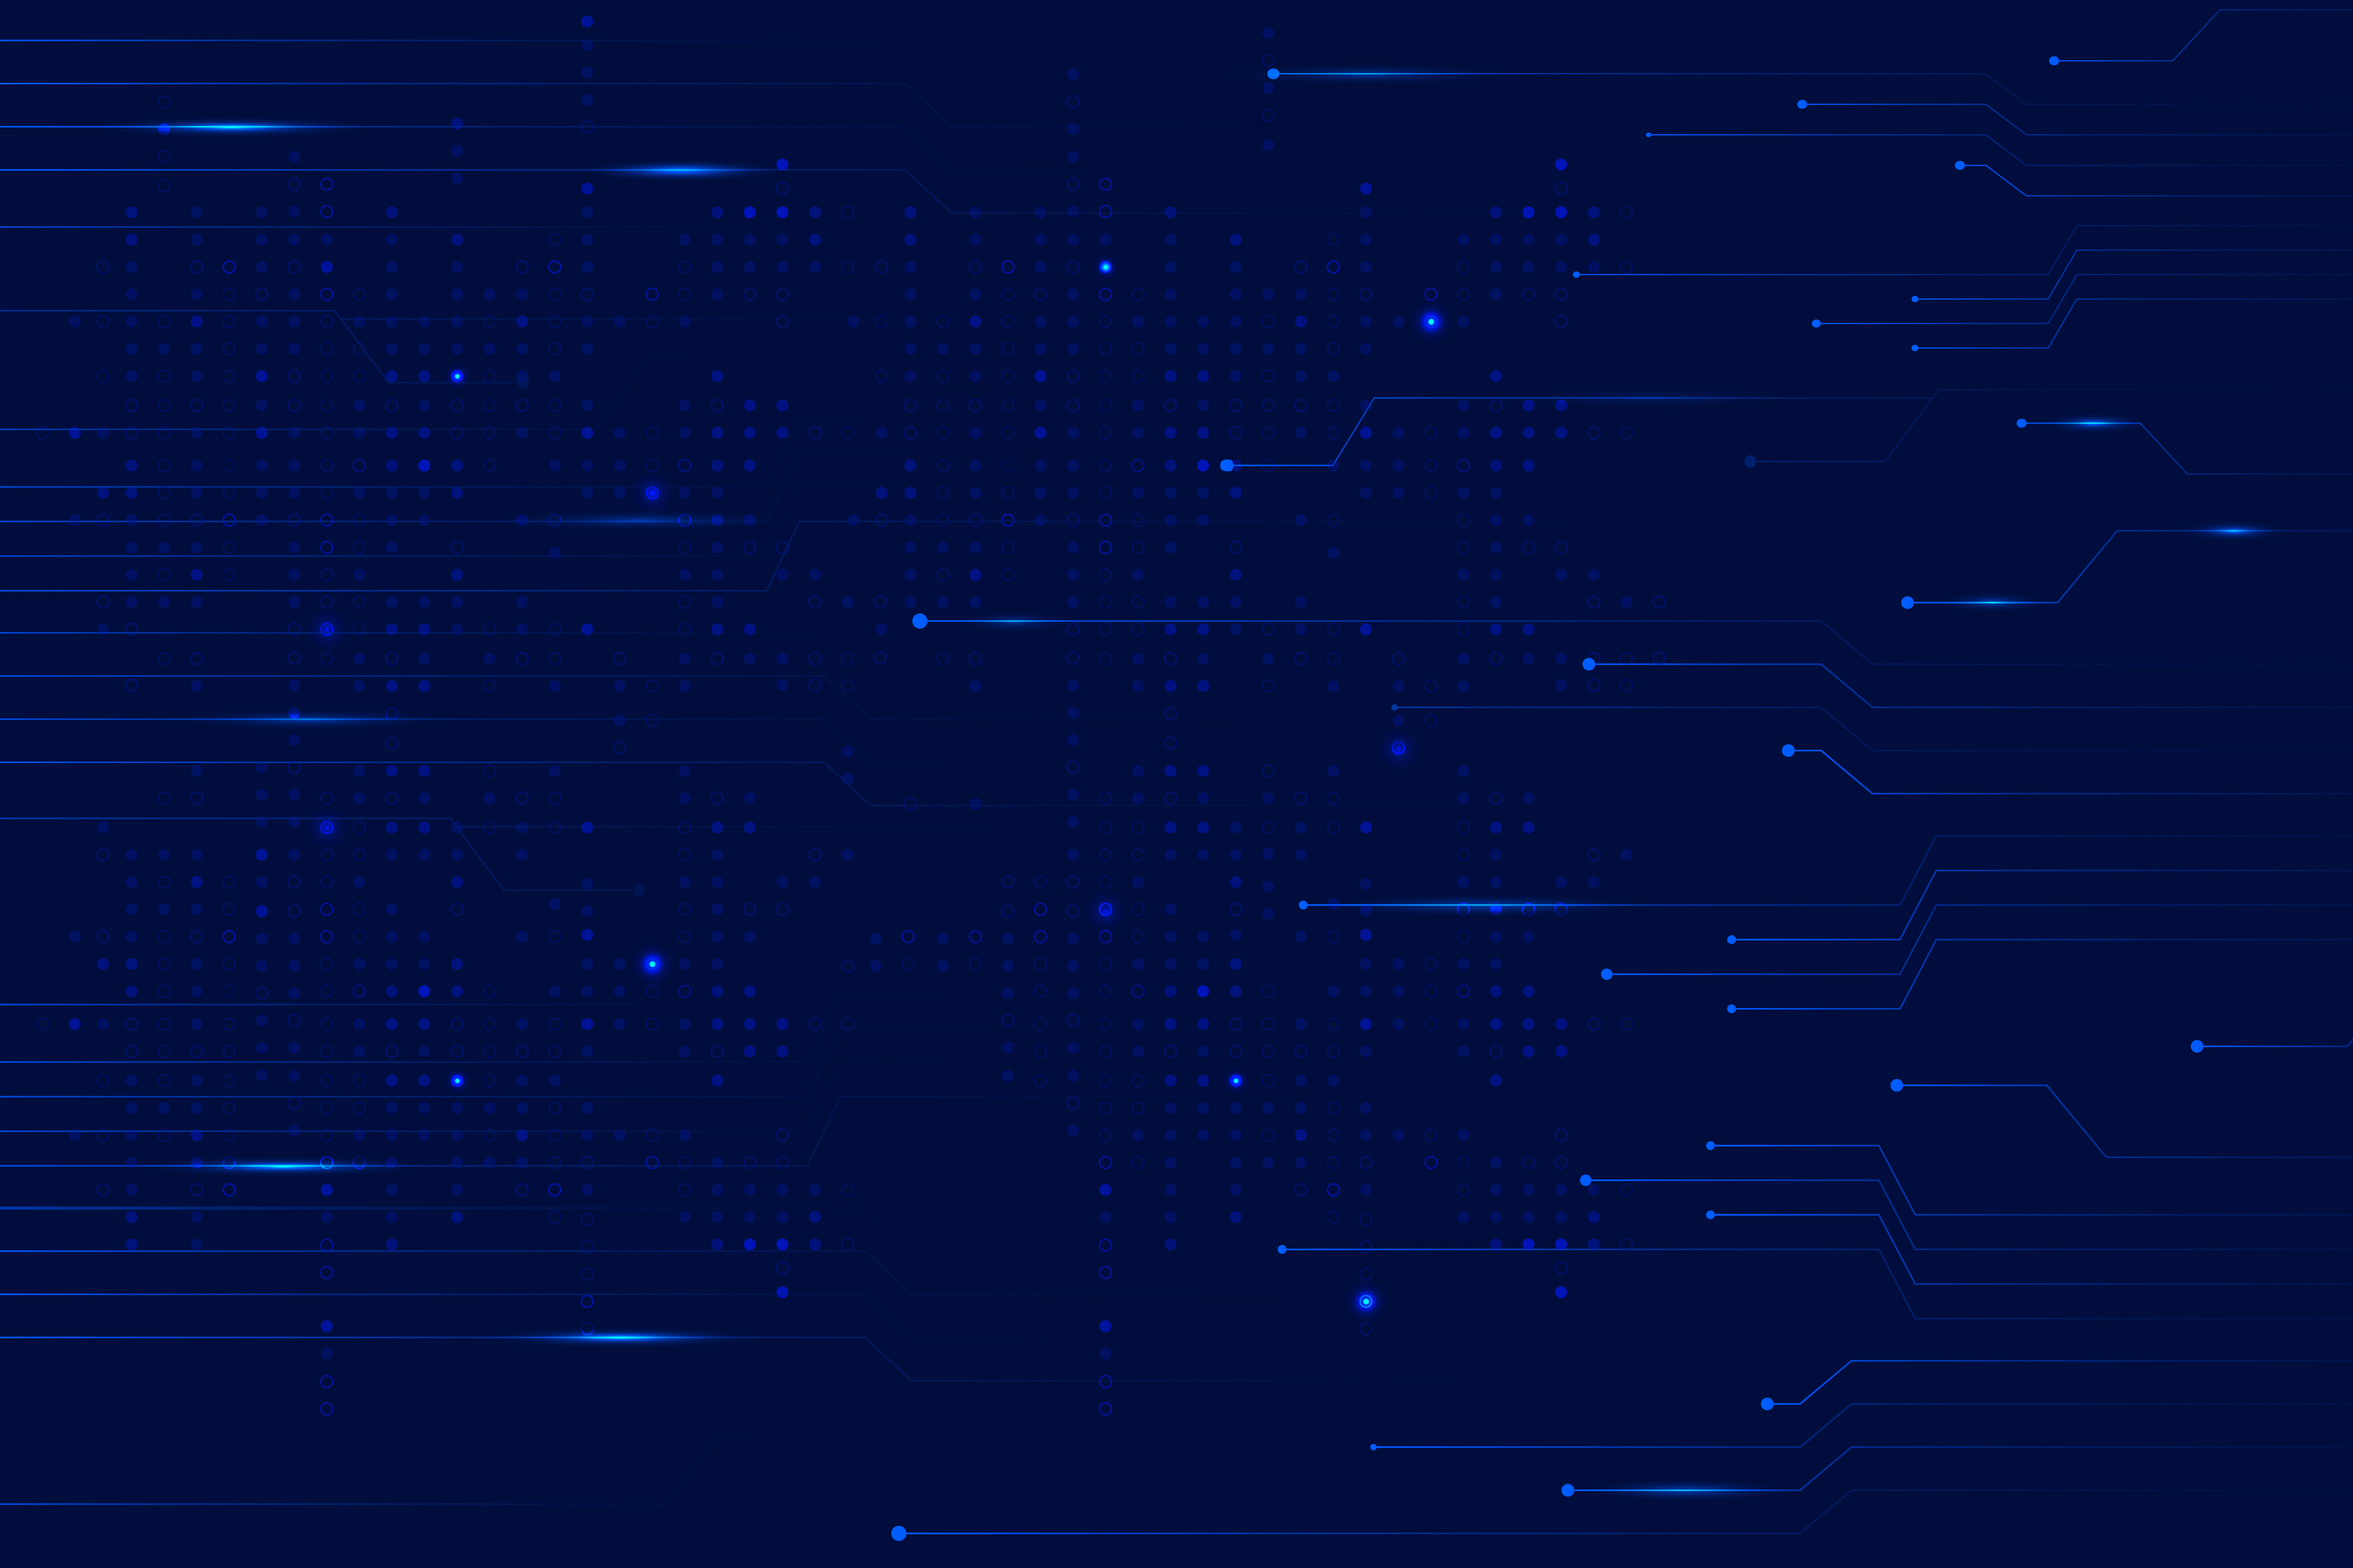
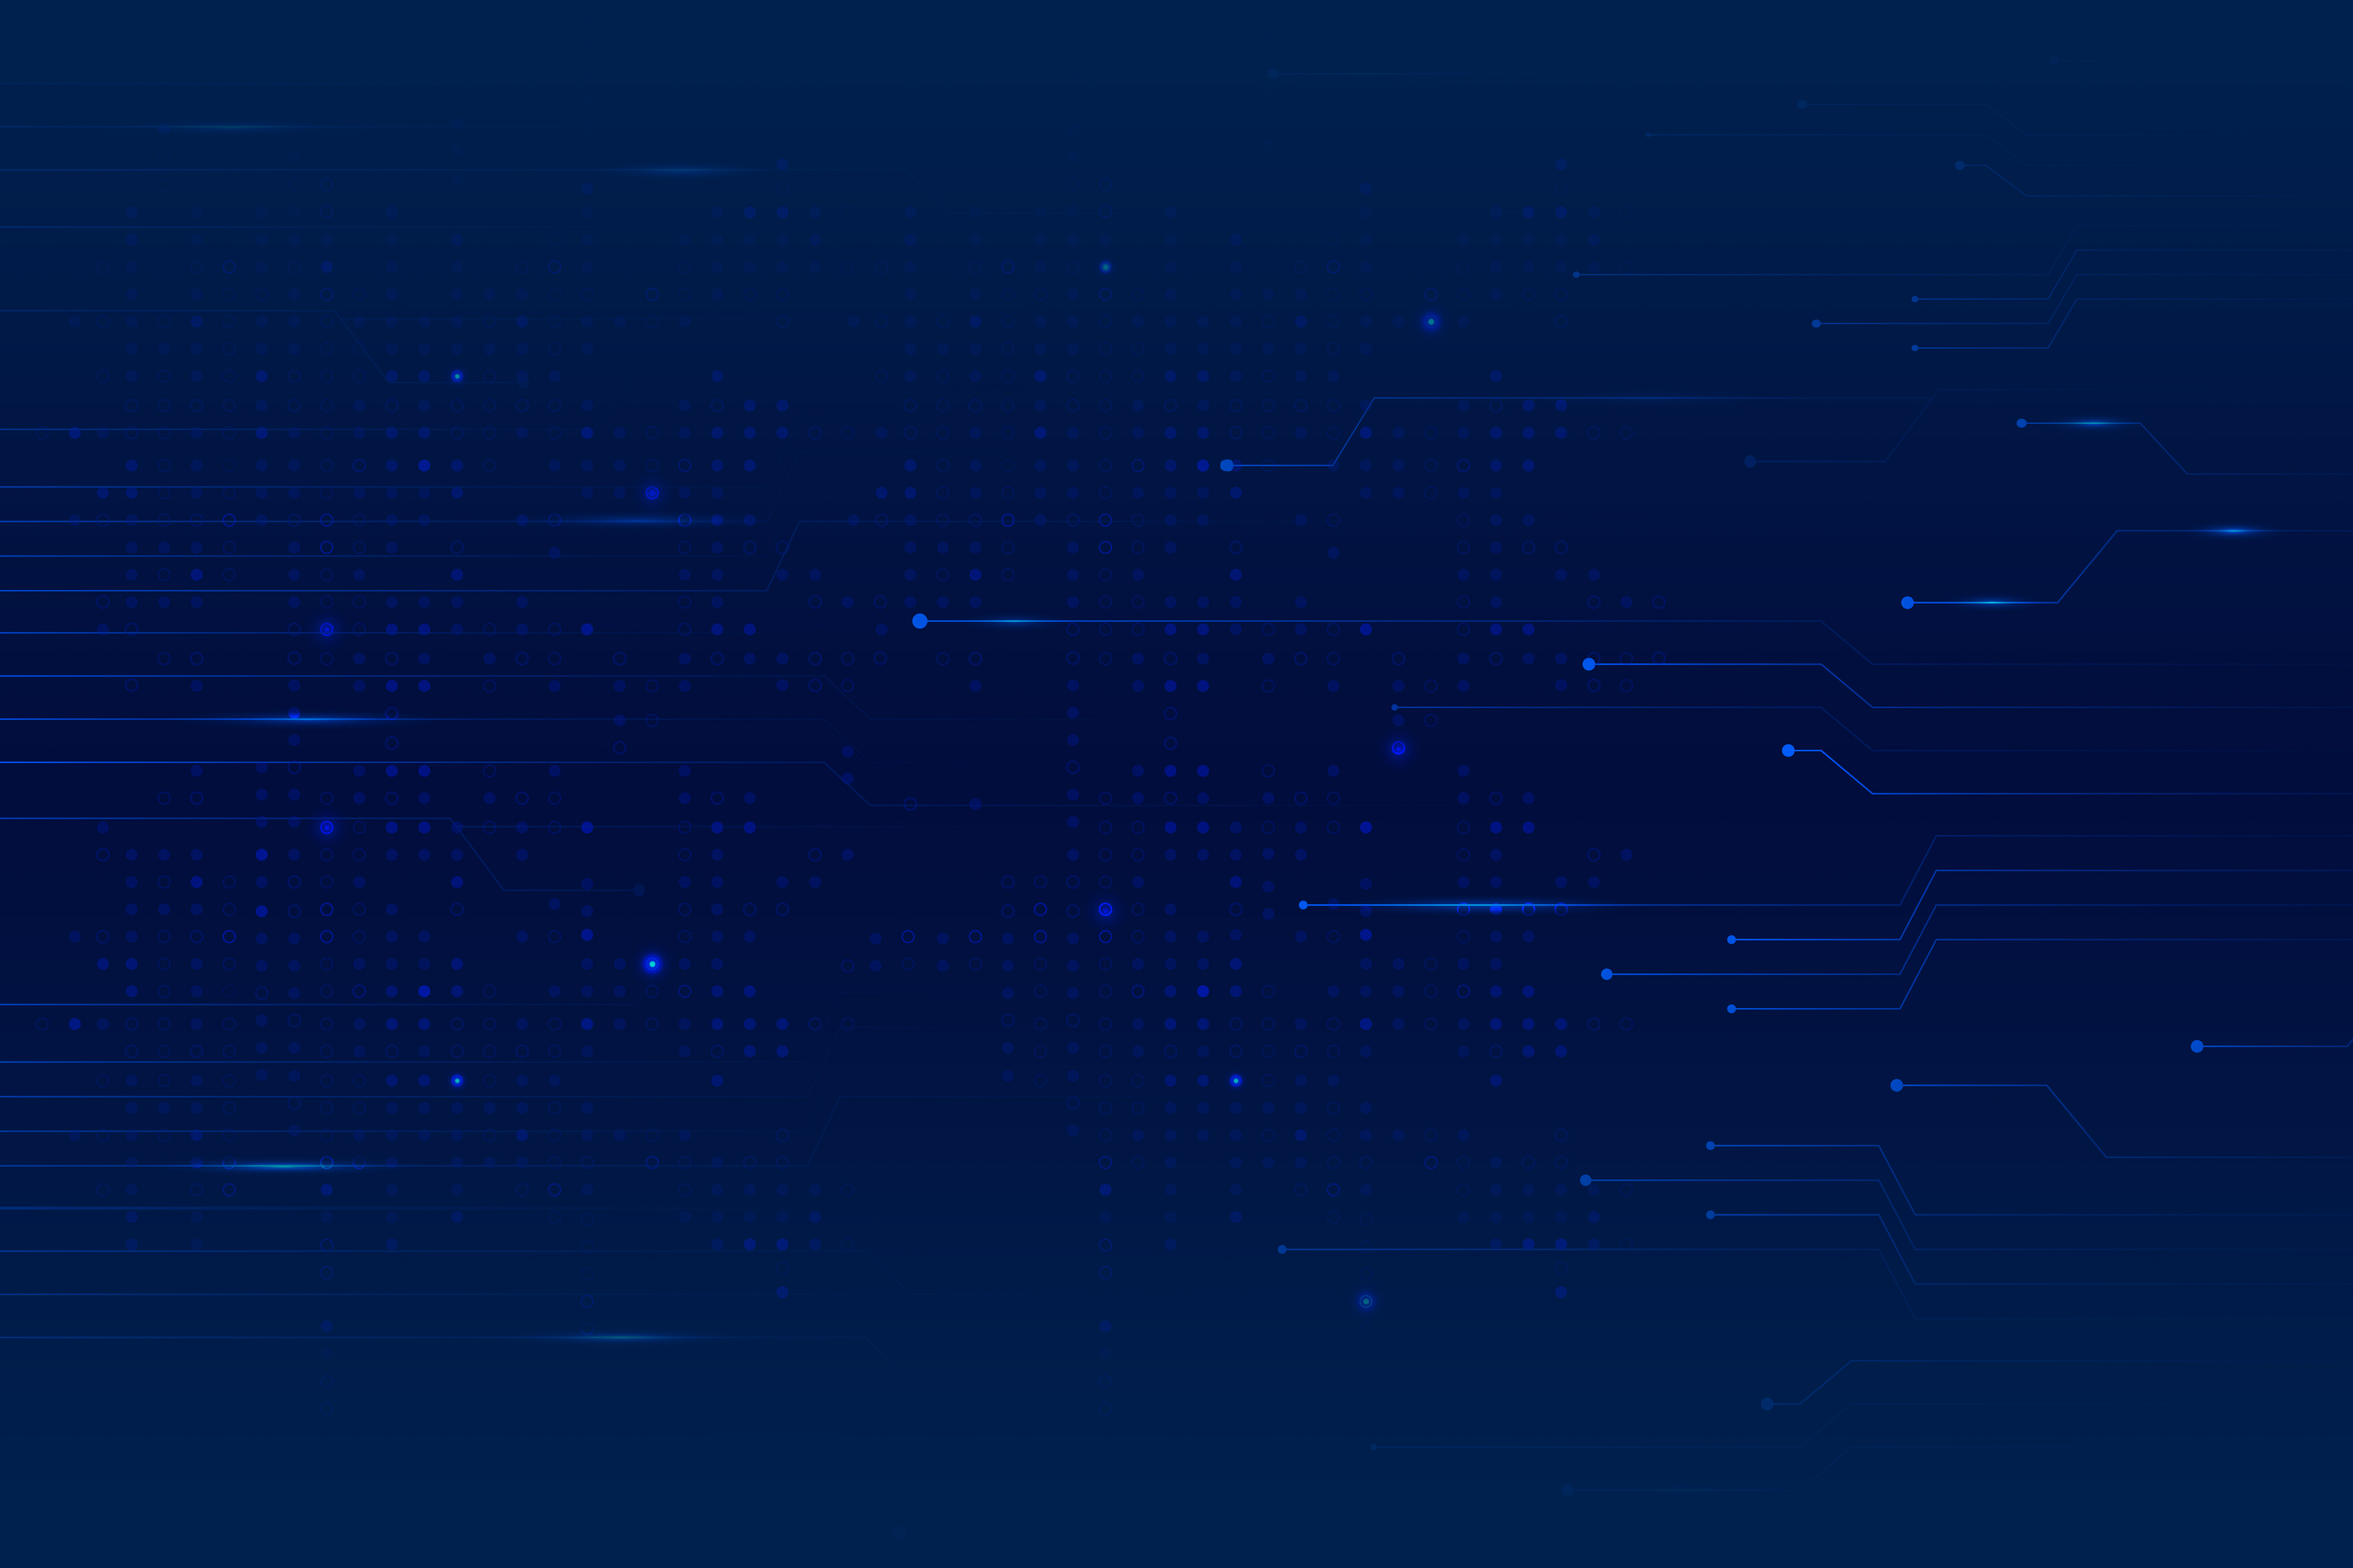
fix css backgrounds

diff --git a/src/pages/Home/components/Fourth/FourthSection.tsx b/src/pages/Home/components/Fourth/FourthSection.tsx
@@ -6,13 +6,24 @@ import KikoTecnologia from "../../../../assets/colaboradores/KIKO_tecnologia.png
 import ParadiseOutlet from "../../../../assets/colaboradores/Paradise_Outlet.jpg";
 import ReiCapinhas from "../../../../assets/colaboradores/Rei_das_capinhas.jpg";
 import SteakHouse from "../../../../assets/colaboradores/SL_STEAK_HOUSE.png";
+import Waser from "../../../../assets/colaboradores/waser_tecnologia.jpeg";
+import MercadoConfianca from "../../../../assets/colaboradores/mercado_confianca_.jpeg";
+
+const colaboradores = [
+  { logo: KikoTecnologia, heightPhoto: "auto", widthPhoto: "90%" },
+  { logo: JZStore },
+  { logo: ParadiseOutlet },
+  { logo: ReiCapinhas },
+  { logo: SteakHouse },
+  { logo: Waser, heightPhoto: "auto", widthPhoto: "90%" },
+  { logo: MercadoConfianca, heightPhoto: "auto", widthPhoto: "90%" },
+];
 
 export function FourthSection() {
   return (
     <>
       <Box
         // height={"auto"}
-        pt={"3em"}
         display={"flex"}
         flexDirection={"column"}
         alignItems={"center"}
@@ -20,44 +31,56 @@ export function FourthSection() {
         py={"2rem"}
         className="background-colaboradores-section"
       >
-        <p className="primary-text-fourth-section">Colaboradores</p>
+        <p className="primary-text-second-section" style={{ margin: "2rem 0" }}>
+          Colaboradores
+        </p>
         <Box
           // display={"grid"}
-          gridTemplateColumns={{ xs: "auto", sm: "auto", md: "auto", lg: "auto auto auto", xl: "auto auto auto"}}
+          gridTemplateColumns={{
+            xs: "auto",
+            sm: "auto",
+            md: "auto",
+            lg: "auto auto auto",
+            xl: "auto auto auto",
+          }}
           bgcolor={"white"}
-          p={"2em"}
+          padding={"2em"}
           borderRadius={"50px"}
-          mt={"1em"}
-          mb="1em"
+          margin={"2em 0"}
           display={{ xs: "none", md: "grid" }}
         >
-          <ColaboradorCard logo={KikoTecnologia} />
-          <ColaboradorCard logo={JZStore}/>
-          <ColaboradorCard logo={ParadiseOutlet}/>
-          <ColaboradorCard logo={ReiCapinhas}/>
-          <ColaboradorCard logo={SteakHouse}/>
-          <ColaboradorCard logo={KikoTecnologia} />
-          <ColaboradorCard logo={JZStore}/>
-          <ColaboradorCard logo={ParadiseOutlet}/>
-          <ColaboradorCard logo={ReiCapinhas}/>
-          <ColaboradorCard logo={SteakHouse}/>
-          <ColaboradorCard logo={KikoTecnologia} />
-          <ColaboradorCard logo={JZStore}/>
+          {colaboradores.map((c, idx) => (
+            <ColaboradorCard
+              logo={c.logo}
+              widthPhoto={c.widthPhoto}
+              heightPhoto={c.heightPhoto}
+              key={idx}
+            />
+          ))}
         </Box>
         <Box
           // display={"grid"}
-          gridTemplateColumns={{ xs: "auto", sm: "auto", md: "auto", lg: "auto auto auto", xl: "auto auto auto"}}
+          gridTemplateColumns={{
+            xs: "auto",
+            sm: "auto",
+            md: "auto",
+            lg: "auto auto auto",
+            xl: "auto auto auto",
+          }}
           bgcolor={"white"}
           p={"1em"}
-          borderRadius={"50px"}
+          borderRadius={"30px"}
           m={"1em 1em"}
           display={{ xs: "grid", md: "none" }}
         >
-          <ColaboradorCard logo={KikoTecnologia} />
-          <ColaboradorCard logo={JZStore}/>
-          <ColaboradorCard logo={ParadiseOutlet}/>
-          <ColaboradorCard logo={ReiCapinhas}/>
-          <ColaboradorCard logo={SteakHouse}/>
+          {colaboradores.map((c, idx) => (
+            <ColaboradorCard
+              logo={c.logo}
+              widthPhoto={c.widthPhoto}
+              heightPhoto={c.heightPhoto}
+              key={idx}
+            />
+          ))}
         </Box>
       </Box>
     </>

diff --git a/src/pages/Home/components/Fourth/components/Colaborador.tsx b/src/pages/Home/components/Fourth/components/Colaborador.tsx
@@ -2,26 +2,11 @@ import { Box } from "@mui/material";
 
 interface IColaborador {
   logo?: string;
+  widthPhoto?: string;
+  heightPhoto?: string;
 }
 
-// export function ColaboradorCard({ logo }: IColaborador) {
-//   return (
-//     <>
-//       <Box
-//         width="270px"
-//         height={"110px"}
-//         border={" 1px solid #c2c2c2"}
-//         display={"flex"}
-//         alignItems={"center"}
-//         justifyContent={"center"}
-//       >
-//         <img src={logo} alt="" width={"120px"} height={"60px"}/>
-//       </Box>
-//     </>
-//   );
-// }
-
-export function ColaboradorCard({ logo }: IColaborador) {
+export function ColaboradorCard({ logo, widthPhoto = "auto", heightPhoto = "90%" }: IColaborador) {
   return (
     <>
       <Box
@@ -32,7 +17,7 @@ export function ColaboradorCard({ logo }: IColaborador) {
         alignItems={"center"}
         justifyContent={"center"}
       >
-        <img src={logo} alt="" width={"auto"} height={"90%"}/>
+        <img src={logo} alt="" width={widthPhoto} height={heightPhoto}/>
       </Box>
     </>
   );

diff --git a/src/pages/Home/components/ThirdSection/ThirdSection.tsx b/src/pages/Home/components/ThirdSection/ThirdSection.tsx
@@ -2,7 +2,6 @@ import { Box, Grid } from "@mui/material";
 import "./style.css";
 // import { Palestrante } from "./components/palestrante";
 import { PalestranteCard } from "./components/palestranteCard";
-import Circuitoipresso from "../../../../assets/CircuitosImpressos.png";
 import FotoDhyego from "../../../../assets/palestrantesPhotos/Dhyego.jpeg";
 import FotoAlessandro from "../../../../assets/palestrantesPhotos/Alessandro.jpeg";
 import FotoRafaelAruca from "../../../../assets/palestrantesPhotos/Rafael_Aruca.jpeg";
@@ -110,10 +109,7 @@ export function ThirdSection() {
         alignItems={"center"}
         flexDirection={"column"}
         p={"4em 0"}
-        style={{
-          background: `url(${Circuitoipresso})  100% / cover no-repeat`,
-          flexShrink: 0,
-        }}
+        className="background-third-section"
       >
         <h3 className="primary-text-second-section">Palestrantes</h3>
         <Grid container>

diff --git a/src/pages/Home/components/FirstSection/style.css b/src/pages/Home/components/FirstSection/style.css
@@ -16,7 +16,8 @@
 }
 
 .background-first-section {
-  background-image: url('../../../../assets/Cerebro.png');
+  /* background-image: url('../../../../assets/Cerebro.png'); */
+  background-image: url('../../../../assets/cerebro-3.jpg');
   height: 100vh;
   background-repeat: no-repeat;
   background-position: center;
@@ -34,7 +35,7 @@
 }
 @media screen and (max-width: 900px) {
   .background-first-section {
-    background-image: url("../../../../assets/Cerebro-md.png");
+    background-image: url("../../../../assets/CerebroSM.jpg");
     /* background-size: 100% 100%; */
   }
   .text-primary-first-section {
@@ -48,7 +49,7 @@
 
 @media screen and (max-width: 600px) {
   .background-first-section {
-    background-image: url("../../../../assets/Cerebro-sm.png");
+    background-image: url("../../../../assets/CerebroXS.jpg");
     /* background-size: 100% 100%; */
   }
 

diff --git a/src/pages/Home/components/Fifth/Fifth.tsx b/src/pages/Home/components/Fifth/Fifth.tsx
@@ -5,7 +5,12 @@ import "./style.css";
 export function FifthSection() {
   return (
     <>
-      <Box height={"auto"} textAlign={"center"}pt="2em">
+      <Box
+        height={"auto"}
+        textAlign={"center"}
+        // pt="2em"
+        className="background-fifth-section"
+      >
         {/* <p
           className="primary-text-fifth-section "
           style={{ textAlign: "center", marginBottom: "1em" }}
@@ -22,7 +27,7 @@ export function FifthSection() {
           flexDirection="column"
           alignItems="center"
           gap={2}
-          mt="2em"
+          padding="2em 0"
         >
           <p className="second-text-fifth-section">Realização</p>
           <CaccLogo />

diff --git a/src/pages/Home/components/Fourth/style.css b/src/pages/Home/components/Fourth/style.css
@@ -1,14 +1,5 @@
-.primary-text-fourth-section {
-  color: #fff;
-  font-family: 'Nasalization';
-  font-size: 64px;
-  font-style: normal;
-  font-weight: 400;
-  line-height: normal;
-}
-
 .background-colaboradores-section {
-  background-image: url("../../../../assets/background_maos_2.jpg");
+  background-image: url("../../../../assets/background-circuit.jpg");
   min-height: 100vh;
   background-repeat: no-repeat;
   background-position: center;
@@ -18,5 +9,8 @@
 @media screen and (max-width: 600px) {
   .primary-text-fourth-section {
     font-size: 2.5rem;
+  }
+  .background-colaboradores-section {
+    background-image: url("../../../../assets/CircuitoSM.jpg");
   }
 }

diff --git a/src/pages/Home/components/Jogos/style.css b/src/pages/Home/components/Jogos/style.css
@@ -1,5 +1,5 @@
 .background-jogos-section {
-  background-image: url("../../../../assets/backgorund_ia_games.jpg");
+  background-image: url("../../../../assets/background-circuit.jpg");
   height: 100vh;
   background-repeat: no-repeat;
   background-position: center;
@@ -39,5 +39,8 @@
 @media screen and (max-width: 600px) {
   .second-text-jogos-section {
     font-size: 1.5rem;
+  }
+  .background-jogos-section {
+    background-image: url("../../../../assets/CircuitoSM.jpg");
   }
 }

diff --git a/src/pages/Home/components/Fifth/style.css b/src/pages/Home/components/Fifth/style.css
@@ -14,8 +14,19 @@
   font-weight: 400;
   line-height: normal;
 }
+
+.background-fifth-section {
+  background-image: url("../../../../assets/background-circuit.jpg");
+  background-repeat: no-repeat;
+  background-position: center;
+  background-size: 100% 100%;
+}
+
 @media screen and (max-width: 600px) {
   .primary-text-fifth-section {
     font-size: 2.5rem
+  }
+  .background-fifth-section {
+    background-image: url("../../../../assets/CircuitoSM.jpg");
   }
 }

diff --git a/src/pages/Home/components/Artigos/style.css b/src/pages/Home/components/Artigos/style.css
@@ -1,7 +1,13 @@
 .background-artigos-section {
-  background-image: url("../../../../assets/background_maos.png");
-  height: 100vh;
+  background-image: url("../../../../assets/background-circuit.jpg");
   background-repeat: no-repeat;
   background-position: center;
   background-size: 100% 100%;
+  height: 100vh;
+}
+
+@media screen and (max-width: 600px) {
+  .background-artigos-section {
+    background-image: url("../../../../assets/CircuitoSM.jpg");
+  }
 }

diff --git a/src/pages/Home/components/ThirdSection/style.css b/src/pages/Home/components/ThirdSection/style.css
@@ -26,3 +26,16 @@
   line-height: normal;
   width: 30rem;
 }
+
+.background-third-section {
+  background-image: url("../../../../assets/background-circuit.jpg");
+  background-repeat: no-repeat;
+  background-position: center;
+  background-size: 100% 100%;
+}
+
+@media screen and (max-width: 600px) {
+  .background-third-section {
+    background-image: url("../../../../assets/CircuitoSM.jpg");
+  }
+}

diff --git a/src/pages/Home/components/SecondSection/style.css b/src/pages/Home/components/SecondSection/style.css
@@ -42,7 +42,11 @@
     font-size: 2.7rem;
   }
 }
+
 @media screen and (max-width: 600px) {
+  .background-second-section {
+    background-image: url("../../../../assets/CircuitoSM.jpg");
+  }
   .second-text-second-section {
     padding: 0px 1rem;
     font-size: 1rem;

diff --git a/src/components/Footer.tsx b/src/components/Footer.tsx
@@ -8,7 +8,7 @@ export function Footer() {
       <Box
         bgcolor="white"
         height={"200px"}
-        mt="4em"
+        padding="2rem 0"
         display={"flex"}
         justifyContent={"space-evenly"}
         alignItems={"center"}
